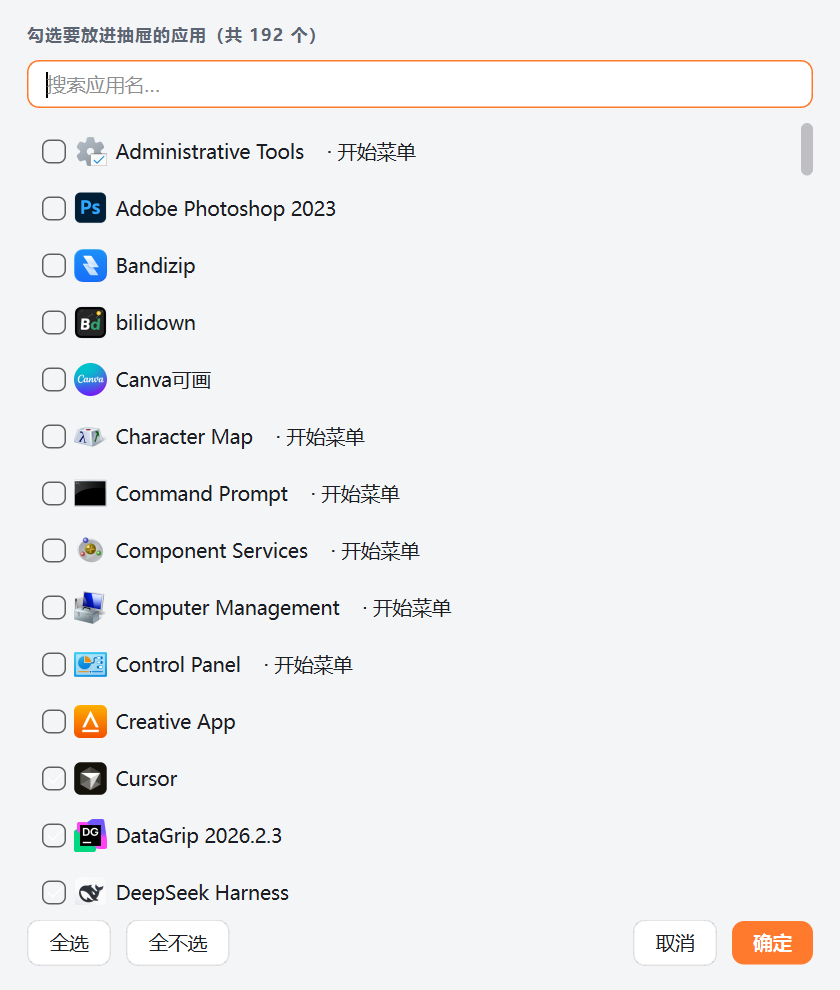
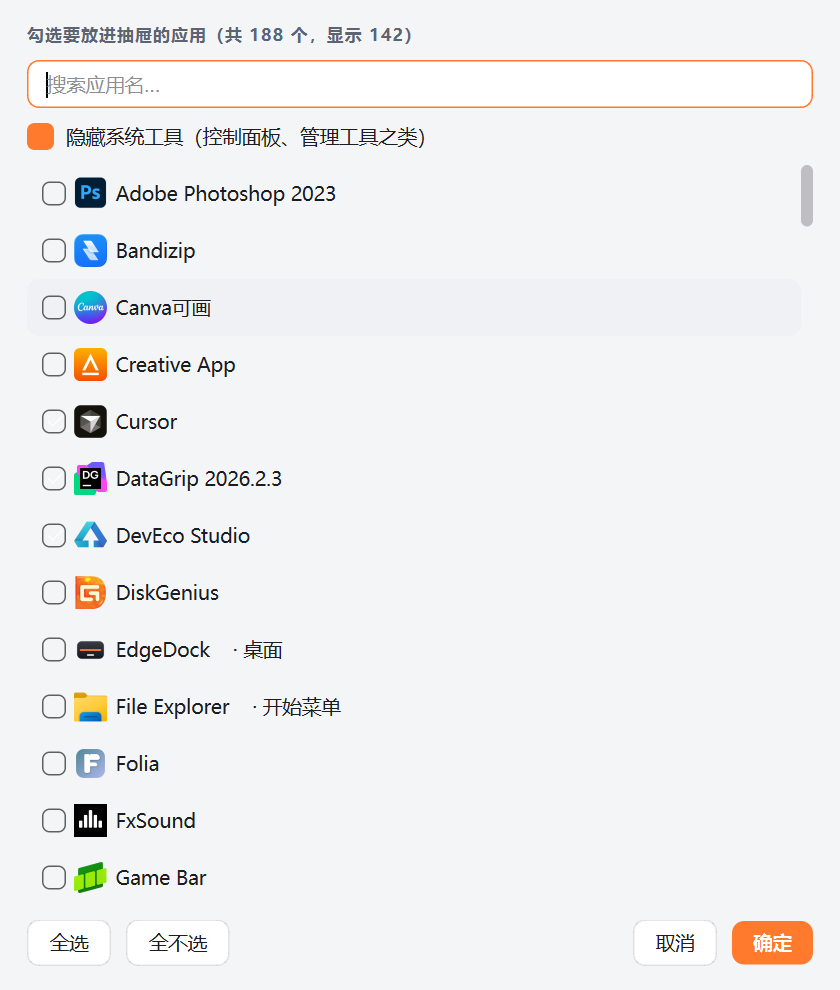
选择器修复：防误清空、池外条目保留；新增隐藏系统工具开关
- _accept 不再静默删除池外条目：应用标识随进程注册的应用、手动添加的
  绿色软件不会被勾选操作误删（此前一次全不选+确定就会清空抽屉）
- 从「有」清成「空」时弹确认框；设置列表的「清空」按钮同样加确认
- 初始勾选状态按名字兜底匹配（应用标识会随进程注册/注销的应用也能正确显示）
- 新增「隐藏系统工具」开关（默认开，状态记入配置）：控制面板、管理工具、
  命令提示符等系统自带小程序不再出现在候选列表，apps.is_system_tool() 负责识别
- 标题栏实时显示「共 N 个，显示 M」
- 新增 tools/check_picker.py（14 项断言，离屏）覆盖上述全部行为

diff --git a/edgedock/settings.py b/edgedock/settings.py
@@ -9,8 +9,8 @@ from PySide6.QtGui import QIcon
 from PySide6.QtWidgets import (QAbstractItemView, QApplication, QButtonGroup,
                                QCheckBox, QComboBox, QDialog, QFileDialog,
                                QFrame, QHBoxLayout, QLabel, QLineEdit,
-                               QListWidget, QListWidgetItem, QPushButton,
-                               QScrollArea, QSizePolicy, QSlider,
+                               QListWidget, QListWidgetItem, QMessageBox,
+                               QPushButton, QScrollArea, QSizePolicy, QSlider,
                                QVBoxLayout, QWidget)
 
 from . import apps as apps_mod
@@ -412,6 +412,14 @@ class SettingsDialog(QDialog):
         self._after_list_change()
 
     def _clear(self) -> None:
+        # 清空没有撤销，条目多的时候误一下就全没了 —— 问一句
+        if self.cfg.items:
+            ret = QMessageBox.question(
+                self, "清空抽屉", "确定要移除抽屉里的全部 %d 个应用吗？"
+                % len(self.cfg.items),
+                QMessageBox.Yes | QMessageBox.No, QMessageBox.No)
+            if ret != QMessageBox.Yes:
+                return
         self.cfg.set_items([])
         self._after_list_change()
 
@@ -507,20 +515,29 @@ class AppPicker(QDialog):
         self.setStyleSheet(theme_mod.settings_qss(self.t))
         self.pool = apps_mod.scan_apps()
         self._chosen = {os.path.normcase(cfg.key(i)) for i in cfg.items}
+        self._chosen_names = {(i.get("name") or "").strip().lower()
+                              for i in cfg.items if i.get("name")}
 
         v = QVBoxLayout(self)
         v.setContentsMargins(18, 16, 18, 16)
         v.setSpacing(10)
 
-        lab = QLabel("勾选要放进抽屉的应用（共 %d 个）" % len(self.pool))
-        lab.setObjectName("Section")
-        v.addWidget(lab)
+        self.lab = QLabel()
+        self.lab.setObjectName("Section")
+        v.addWidget(self.lab)
 
         self.search = QLineEdit()
         self.search.setPlaceholderText("搜索应用名…")
         self.search.setClearButtonEnabled(True)
-        self.search.textChanged.connect(self._filter)
+        self.search.textChanged.connect(self._apply_filter)
         v.addWidget(self.search)
+
+        # 系统工具（控制面板、管理工具那一类）默认不显示 —— 能打开，但没人
+        # 会想把它们放进抽屉。开关状态记进配置，下次打开还保持。
+        self.chk_sys = QCheckBox("隐藏系统工具（控制面板、管理工具之类）")
+        self.chk_sys.setChecked(bool(cfg["hide_sys"]))
+        self.chk_sys.toggled.connect(self._on_hide_sys)
+        v.addWidget(self.chk_sys)
 
         self.list = QListWidget()
         self.list.setIconSize(QSize(22, 22))
@@ -533,7 +550,7 @@ class AppPicker(QDialog):
             item = QListWidgetItem(self._label_of(it))
             item.setData(Qt.UserRole, idx)          # 下标指回 self.pool
             item.setFlags(item.flags() | Qt.ItemIsUserCheckable)
-            item.setCheckState(Qt.Checked if self._key_of(it) in self._chosen
+            item.setCheckState(Qt.Checked if self._is_chosen(it)
                                else Qt.Unchecked)
             item.setToolTip(it.get("appid") or it.get("path") or "")
             spec = apps_mod.spec_of(it)
@@ -561,6 +578,8 @@ class AppPicker(QDialog):
 
         # 图标是后台分批提取的，好了就把对应那行刷新一下
         store.ready.connect(self._on_icon_ready)
+        # 开场先过一遍过滤：系统工具默认要藏起来，标题里的计数也靠它写
+        self._apply_filter()
         self._specs = [apps_mod.spec_of(it) for it in self.pool]
         # 先补首屏看得见的那些，剩下的等窗口出来了再补 —— 一百多个一起提
         # 会让第一次打开明显发木
@@ -577,6 +596,13 @@ class AppPicker(QDialog):
     def _key_of(app: dict) -> str:
         return os.path.normcase((app.get("appid") or app.get("path") or "").strip())
 
+    def _is_chosen(self, app: dict) -> bool:
+        """这个候选应用在不在抽屉里。键对不上时按名字兜底 —— 应用标识是会
+        随进程注册/注销的（比如 DeepSeek Harness），抽屉里存的可能还是旧键。"""
+        if self._key_of(app) in self._chosen:
+            return True
+        return app["name"].strip().lower() in self._chosen_names
+
     @staticmethod
     def _label_of(app: dict) -> str:
         label = app["name"]
@@ -586,11 +612,26 @@ class AppPicker(QDialog):
             label += "    · %s" % src
         return label
 
-    def _filter(self, text: str) -> None:
-        needle = text.strip().lower()
+    def _apply_filter(self) -> None:
+        needle = self.search.text().strip().lower()
+        hide_sys = self.chk_sys.isChecked()
+        visible = 0
         for i in range(self.list.count()):
             item = self.list.item(i)
-            item.setHidden(bool(needle) and needle not in item.text().lower())
+            it = self.pool[item.data(Qt.UserRole)]
+            hide = ((bool(needle) and needle not in item.text().lower())
+                    or (hide_sys and apps_mod.is_system_tool(it)))
+            item.setHidden(hide)
+            if not hide:
+                visible += 1
+        total = len(self.pool)
+        self.lab.setText("勾选要放进抽屉的应用（共 %d 个%s）"
+                         % (total, "，显示 %d" % visible if visible < total else ""))
+
+    def _on_hide_sys(self, on: bool) -> None:
+        self.cfg["hide_sys"] = bool(on)
+        self.cfg.save()
+        self._apply_filter()
 
     def _on_icon_ready(self, spec: str) -> None:
         dpr = self.devicePixelRatioF() or 1.0
@@ -612,14 +653,40 @@ class AppPicker(QDialog):
                 app = self.pool[item.data(Qt.UserRole)]
                 picked.append(app)
                 keys.add(self._key_of(app))
-        # 原有项保持原顺序（用户可能调过），新勾的按列表顺序往后接
+        # 这次的勾选**管不着**池外条目：应用标识随进程注册的应用（进程一退
+        # 就从「所有应用」里消失）、用户手动加的绿色软件……它们不在候选列表里，
+        # 没被勾上不代表用户不要了，原样保留 —— 之前这里会把它们静默删掉。
+        pool_keys = {self._key_of(a) for a in self.pool}
         out = [it for it in self.cfg.items
-               if os.path.normcase(self.cfg.key(it)) in keys]
+               if os.path.normcase(self.cfg.key(it)) not in pool_keys]
         have = {os.path.normcase(self.cfg.key(it)) for it in out}
+        # 勾上的：老条目按原顺序跟上（用户可能调过序），新条目按列表顺序往后接
+        for it in self.cfg.items:
+            k = os.path.normcase(self.cfg.key(it))
+            if k in keys and k not in have:
+                out.append(it)
+                have.add(k)
         for app in picked:
             if self._key_of(app) not in have:
                 out.append(app)
                 have.add(self._key_of(app))
-        self.cfg.set_items(out)
+        # 同名只留先来的 —— 名字兜底匹配可能让新旧两条重复入列
+        seen_names = set()
+        deduped = []
+        for it in out:
+            low = (it.get("name") or "").strip().lower()
+            if low and low in seen_names:
+                continue
+            if low:
+                seen_names.add(low)
+            deduped.append(it)
+        # 从「非空」清成「空」多半是误触（比如全不选之后顺手点了确定），拦一下
+        if self.cfg.items and not deduped:
+            ret = QMessageBox.question(
+                self, "清空抽屉", "一个应用都没勾 —— 确定要清空抽屉吗？",
+                QMessageBox.Yes | QMessageBox.No, QMessageBox.No)
+            if ret != QMessageBox.Yes:
+                return
+        self.cfg.set_items(deduped)
         self.cfg.save()
         self.accept()

diff --git a/tools/check_picker.py b/tools/check_picker.py
@@ -1,0 +1,147 @@
+# -*- coding: utf-8 -*-
+"""选择器（AppPicker）自检：勾选状态、防误清空、池外条目保留、系统工具过滤。
+
+全部在**离屏**模式下跑（QT_QPA_PLATFORM=offscreen），不弹窗口、不碰真实鼠标，
+配置写在临时文件里，不会动你自己的 config.json。
+
+用法：.venv\\Scripts\\python.exe tools\\check_picker.py
+"""
+from __future__ import annotations
+
+import json
+import os
+import sys
+import tempfile
+
+ROOT = os.path.dirname(os.path.dirname(os.path.abspath(__file__)))
+sys.path.insert(0, ROOT)
+
+# 必须在 import edgedock.config 之前定好配置路径（CONFIG_PATH 是模块级求值的）
+_tmp = tempfile.mkdtemp(prefix="edgedock_picker_")
+os.environ["EDGEDOCK_CONFIG"] = os.path.join(_tmp, "config.json")
+os.environ.setdefault("QT_QPA_PLATFORM", "offscreen")
+
+from PySide6.QtCore import Qt                      # noqa: E402
+from PySide6.QtWidgets import QApplication, QMessageBox   # noqa: E402
+
+from edgedock import apps as apps_mod              # noqa: E402
+from edgedock import config as cfg_mod             # noqa: E402
+from edgedock.icons import IconStore               # noqa: E402
+from edgedock.settings import AppPicker            # noqa: E402
+
+app = QApplication([])
+PASS = FAIL = 0
+
+# 用一个**真实存在**于候选池里的应用当测试样本（假应用id不在池里，测不了勾选）
+POOL = apps_mod.scan_apps()
+SAMPLE = next(a for a in POOL if not apps_mod.is_system_tool(a) and a["appid"])
+
+
+def check(name: str, ok: bool, detail: str = "") -> None:
+    global PASS, FAIL
+    if ok:
+        PASS += 1
+        print("  PASS  %s" % name)
+    else:
+        FAIL += 1
+        print("  FAIL  %s   %s" % (name, detail))
+
+
+def fresh_config(items: list) -> cfg_mod.Config:
+    with open(os.environ["EDGEDOCK_CONFIG"], "w", encoding="utf-8") as fh:
+        json.dump({"items": items, "hide_sys": True, "seeded": True}, fh,
+                  ensure_ascii=False)
+    return cfg_mod.Config()
+
+
+def picker(cfg) -> AppPicker:
+    return AppPicker(cfg, IconStore(os.path.join(_tmp, "cache")))
+
+
+def row_of(dlg: AppPicker, name: str):
+    for i in range(dlg.list.count()):
+        if dlg.pool[dlg.list.item(i).data(Qt.UserRole)]["name"] == name:
+            return dlg.list.item(i)
+    return None
+
+
+GREEN = {"path": r"C:\portable\green.exe", "appid": "", "name": "GreenTool"}
+
+print("== 1. 系统工具识别 ==")
+check("按名字认出 Control Panel",
+      apps_mod.is_system_tool({"name": "Control Panel", "path": "", "appid": "x"}))
+check("普通应用不被误伤",
+      not apps_mod.is_system_tool({"name": "某绿色软件", "path": r"C:\sm\app.exe",
+                                   "appid": ""}))
+check("按开始菜单分组认出系统工具",
+      apps_mod.is_system_tool({"name": "whatever", "path":
+          r"C:\Start Menu\Programs\Administrative Tools\x.lnk", "appid": ""}))
+
+print("== 2. 初始勾选状态（键匹配 + 名字兜底） ==")
+cfg = fresh_config([
+    {"path": SAMPLE.get("path", ""), "appid": SAMPLE["appid"],
+     "name": SAMPLE["name"]},
+    dict(GREEN),     # 池外条目：路径是编的，scan_apps 里不会有
+])
+dlg = picker(cfg)
+check("池内条目按键勾上", row_of(dlg, SAMPLE["name"]).checkState() == Qt.Checked)
+check("池外条目不在列表里", row_of(dlg, "GreenTool") is None)
+
+print("== 3. 全不选 + 确定 -> 拦截（回答「否」） ==")
+# 两条都是池内条目：全不选之后确定，列表会清空，必须被拦截问一句
+SAMPLE2 = next(a for a in POOL if a is not SAMPLE
+               and not apps_mod.is_system_tool(a) and a["appid"])
+cfg = fresh_config([
+    {"path": SAMPLE.get("path", ""), "appid": SAMPLE["appid"],
+     "name": SAMPLE["name"]},
+    {"path": SAMPLE2.get("path", ""), "appid": SAMPLE2["appid"],
+     "name": SAMPLE2["name"]},
+])
+dlg = picker(cfg)
+dlg._set_all(Qt.Unchecked)
+QMessageBox.question = staticmethod(lambda *a, **k: QMessageBox.No)
+dlg._accept()
+cfg2 = cfg_mod.Config()
+check("回答「否」-> 条目原样保留", len(cfg2.items) == 2,
+      str([(i['name'], i['appid'], i['path']) for i in cfg2.items]))
+
+print("== 4. 同上但回答「是」 -> 真的清空 ==")
+QMessageBox.question = staticmethod(lambda *a, **k: QMessageBox.Yes)
+dlg._accept()
+cfg3 = cfg_mod.Config()
+check("确认真清空", len(cfg3.items) == 0, str(cfg3.items))
+
+print("== 5. 池外条目在重选时不被丢掉 ==")
+cfg4 = fresh_config([dict(GREEN)])
+dlg2 = picker(cfg4)
+row_of(dlg2, SAMPLE["name"]).setCheckState(Qt.Checked)
+dlg2._accept()
+cfg5 = cfg_mod.Config()
+names = [it["name"] for it in cfg5.items]
+check("池外条目保留", "GreenTool" in names, str(names))
+check("新勾的条目加进来", SAMPLE["name"] in names, str(names))
+
+print("== 4b. 全不选 + 确定 也不动池外条目 ==")
+cfg4b = fresh_config([dict(GREEN)])
+dlg2b = picker(cfg4b)
+dlg2b._set_all(Qt.Unchecked)
+dlg2b._accept()
+cfg4b_after = cfg_mod.Config()
+check("池外条目即使在全不选下也保留",
+      [it["name"] for it in cfg4b_after.items] == ["GreenTool"],
+      str(cfg4b_after.items))
+
+print("== 6. 隐藏系统工具开关 ==")
+dlg3 = picker(cfg5)
+hidden = [i for i in range(dlg3.list.count()) if dlg3.list.item(i).isHidden()]
+check("默认开启 -> 有条目被隐藏", len(hidden) > 0, "hidden=%d" % len(hidden))
+dlg3.chk_sys.setChecked(False)
+check("关掉后全部可见",
+      all(not dlg3.list.item(i).isHidden() for i in range(dlg3.list.count())))
+check("开关状态写进配置", cfg_mod.Config()["hide_sys"] is False)
+dlg3.chk_sys.setChecked(True)
+check("再开回去也落盘", cfg_mod.Config()["hide_sys"] is True)
+
+print("\n%s：共 %d 项，失败 %d 项" % (
+    "全部通过 ✅" if FAIL == 0 else "有失败 ❌", PASS + FAIL, FAIL))
+sys.exit(1 if FAIL else 0)

diff --git a/edgedock/apps.py b/edgedock/apps.py
@@ -44,6 +44,39 @@ def walk(root: str, exts: tuple) -> list[str]:
     return out
 
 
+# Windows 自带的管理工具 / 系统小程序：能打开，但当成「应用」没有意义，
+# 在选择器里只会添乱。按路径里的系统分组名 + 显示名关键词两层认。
+_SYS_DIRS = (
+    # 开始菜单里的系统分组（中英文都认，路径一律按小写比）
+    "windows system", "windows accessories", "windows administrative tools",
+    "windows ease of access", "windows games", "administrative tools",
+    "system tools", "accessories",
+    "windows 系统", "windows 附件", "windows 管理工具", "windows 轻松使用",
+)
+_SYS_WORDS = (
+    "component services", "computer management", "control panel",
+    "character map", "command prompt", "registry editor", "event viewer",
+    "device manager", "task scheduler", "system configuration",
+    "system information", "disk cleanup", "defragment", "dfrgui",
+    "windows defender", "steps recorder", "math input",
+    "组件服务", "计算机管理", "控制面板", "字符映射表", "命令提示符",
+    "注册表编辑器", "事件查看器", "设备管理器", "任务计划程序", "系统配置",
+    "系统信息", "磁盘清理", "磁盘碎片整理", "任务管理器", "步骤记录器",
+)
+
+
+def is_system_tool(app: dict) -> bool:
+    """是不是 Windows 自带的系统工具（控制面板、管理工具那一类）。
+
+    只在选择器里当**可开关的过滤器**用 —— 不在扫描阶段剔除，用户想要照样能加。
+    """
+    low = app.get("name", "").strip().lower()
+    if any(w in low for w in _SYS_WORDS):
+        return True
+    p = (app.get("path") or "").lower()
+    return any(d in p for d in _SYS_DIRS)
+
+
 def scan_apps() -> list[dict]:
     """列出这台机器上能启动的应用，按名字排序。
 

diff --git a/edgedock/config.py b/edgedock/config.py
@@ -45,6 +45,7 @@ DEFAULTS = {
     "items": [],               # [{"name","path","appid","args","target","workdir","runas"}]
                                # appid = 「所有应用」里的标识，path = 文件（.lnk/.exe/.url）
                                # 两者至少有一个，appid 优先
+    "hide_sys": True,          # 选择器里默认隐藏 Windows 自带的系统工具
     "seeded": False,
 }
 

diff --git a/简介.md b/简介.md
@@ -39,6 +39,7 @@ Windows 桌面小工具 · PySide6 实现 · 绿色免安装 · 全中文注释
 - 设置里 **从系统选择…** 打开带搜索框的应用列表：本机能启动的应用全在里面，敲几个字母就筛出来了
 - 来源是 Windows 的「所有应用」（`shell:AppsFolder`）——**商店应用也在内**，这正是桌面快捷方式
   永远覆盖不到的一块。桌面和「开始」菜单作为补充，同名的不会重复出现
+- **隐藏系统工具**开关默认开着：控制面板、管理工具之类不掺和进来，想要的再关掉开关
 - 卸载程序、帮助文档、许可协议之类会被过滤掉，列表里都是能「打开」的东西
 - 每项都带**真图标**，非「应用列表」来源的会标出来源（`· 开始菜单` / `· 桌面`）
 - 图标数量不固定，想放多少个放多少个，装不下时自动出现滚动（滚轮即可翻）
